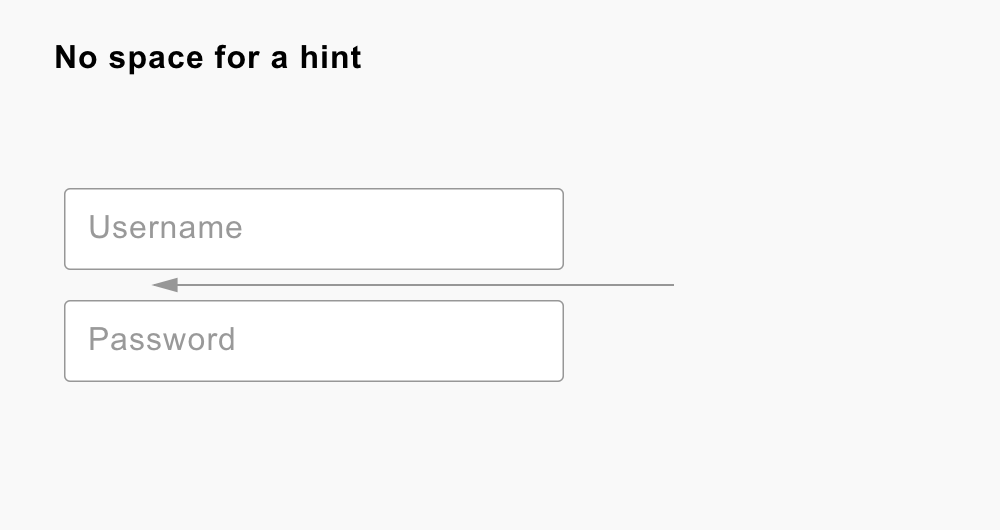
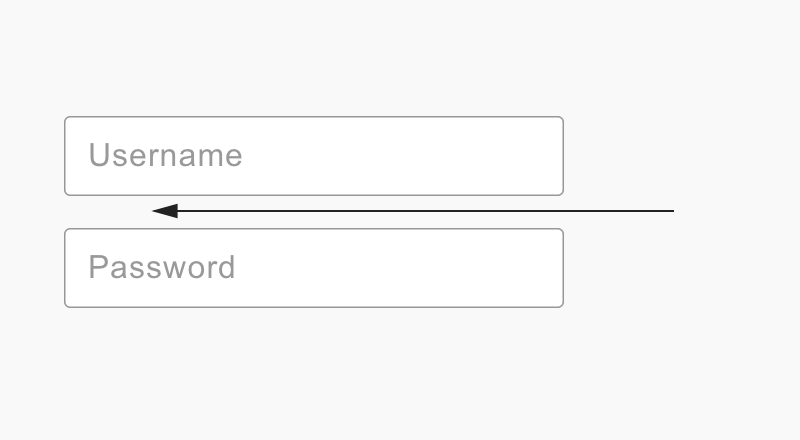
Update captions, animation and images

diff --git a/_drafts/2038-01-01-floating-labels-are-problematic.md b/_drafts/2038-01-01-floating-labels-are-problematic.md
@@ -5,7 +5,7 @@ date: 2038-01-01 09:00:01
 categories: js
 ---
 
-Whenever I tell people about the [problems with placeholders](/articles/placeholders-are-problematic/), they normally respond by telling me about the floating label pattern. We are often seduced by novel design patterns that save space. In this case, though, they come with many usability problems:
+After writing [Placeholders Are Problematic](/articles/placeholders-are-problematic/), some people suggested the floating label as a solution. We are often seduced by novel design patterns that save space. In this case, though, the floating label pattern has several problems:
 
 ## 1. There is no space for an actual hint
 
@@ -14,7 +14,7 @@ Not all fields require a hint, but for those that do, the floating label pattern
 <div class="image">
 	<figure>
 		<img src="{{ site.url }}/assets/img/floatinglabels/1-hint.png" alt="Alt" width="100%" style="max-width: 500px;">
-		<figcaption>Caption</figcaption>
+		<figcaption>No space for hint</figcaption>
 	</figure>
 </div>
 
@@ -25,7 +25,7 @@ A floating label is normally small. This is so that as it moves outside of the f
 <div class="image">
 	<figure>
 		<img src="{{ site.url }}/assets/img/floatinglabels/2-readability.png" alt="Alt" width="100%" style="max-width: 500px;">
-		<figcaption>Caption</figcaption>
+		<figcaption>Small text is hard to read</figcaption>
 	</figure>
 </div>
 
@@ -37,7 +37,7 @@ A floated label needs space to move into. This means that, if labels are a usabl
 <div class="image">
 	<figure>
 		<img src="{{ site.url }}/assets/img/floatinglabels/3-space.png" alt="Alt" width="100%" style="max-width: 500px;">
-		<figcaption>Caption</figcaption>
+		<figcaption>They need landing space</figcaption>
 	</figure>
 </div>
 
@@ -45,7 +45,7 @@ Alternatively, we could create space *as* the label moves into position. But thi
 
 ## 4. The animation is problematic
 
-Animation itself is quite often janky. That aside, some users may find it distracting and disorientating. This is particularly applicable to low confidence or visually-impaired users. For people who zoom in, the label may float off-screen causing the user to lose context.
+Exusing the fact that web animations are often janky, they could be distracting and disorientating for users. Particularly for low confidence or visually-impaired users. And when zooming in, the label may disappear off screen.
 
 ## 5. They have poor contrast and related issues
 
@@ -54,7 +54,7 @@ Like regular placeholder text, a floating label has low contrast to make it look
 <div class="image">
 	<figure>
 		<img src="{{ site.url }}/assets/img/floatinglabels/5-contrast.png" alt="Alt" width="100%" style="max-width: 500px;">
-		<figcaption>Caption</figcaption>
+		<figcaption>They have poor contrast</figcaption>
 	</figure>
 </div>
 
@@ -73,7 +73,7 @@ For example, when looking at a textbox the user has to look *inside* the control
 <div class="image">
 	<figure>
 		<img src="{{ site.url }}/assets/img/floatinglabels/7-consistency.png" alt="Alt" width="100%" style="max-width: 500px;">
-		<figcaption>Caption</figcaption>
+		<figcaption>Inconsistent description location</figcaption>
 	</figure>
 </div>
 
@@ -86,7 +86,7 @@ If the floating label is longer than the size of the field, it will get cut off.
 <div class="image">
 	<figure>
 		<img src="{{ site.url }}/assets/img/floatinglabels/8-cutoff.png" alt="Alt" width="100%" style="max-width: 500px;">
-		<figcaption>Caption</figcaption>
+		<figcaption>The label may get cut off</figcaption>
 	</figure>
 </div>
 
